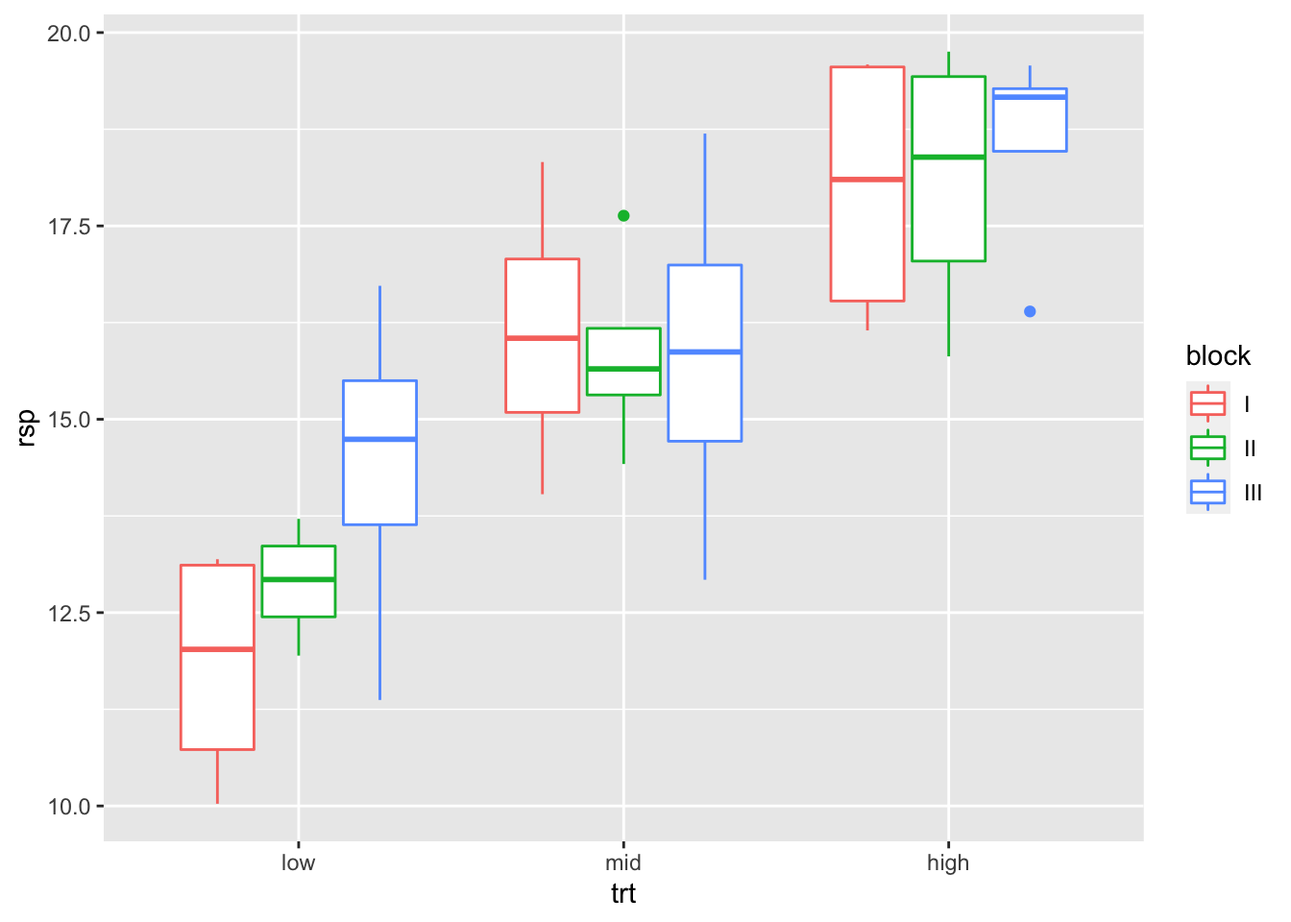
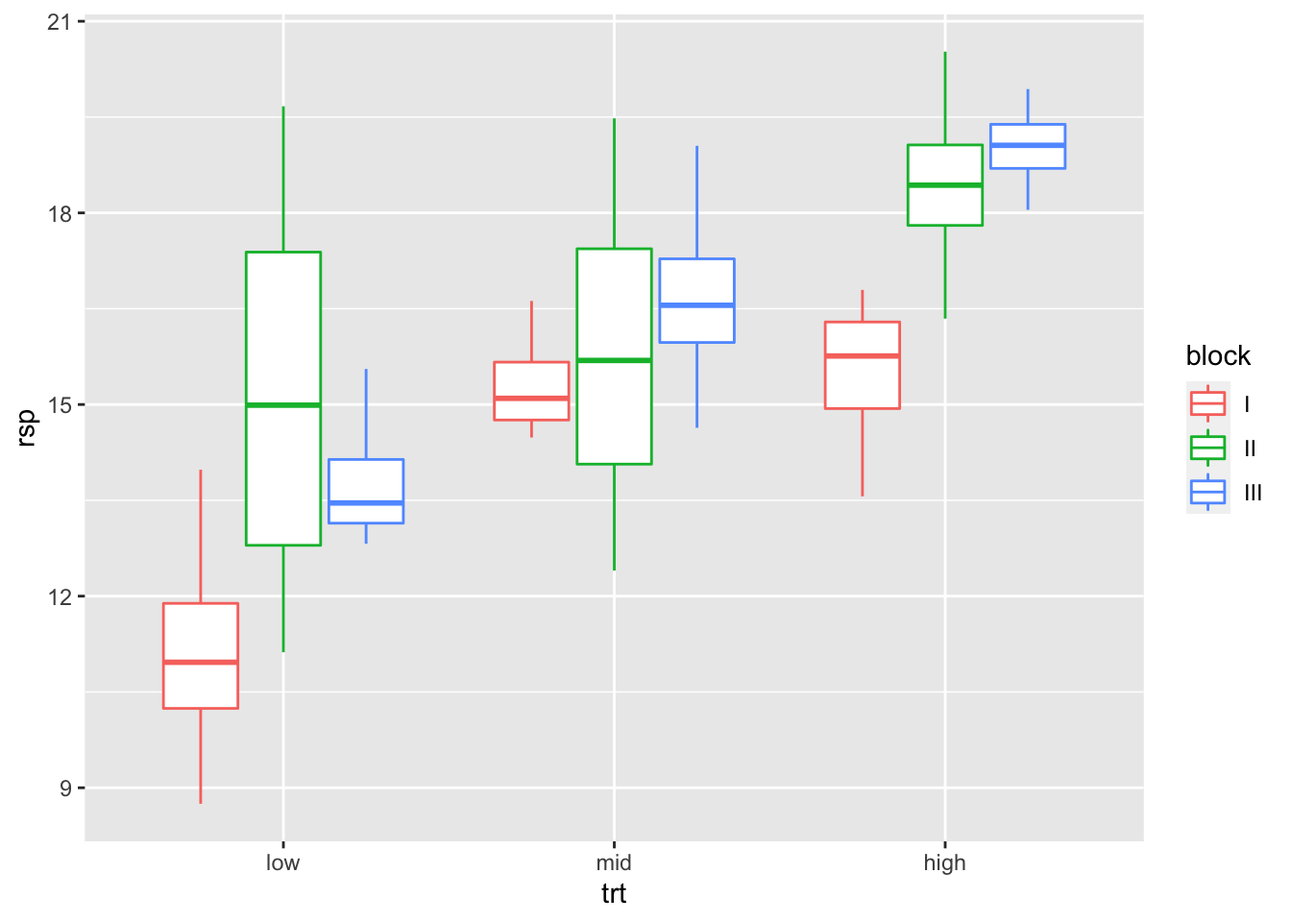
added some stuff

diff --git a/docs/app-example-analysis.html b/docs/app-example-analysis.html
@@ -340,7 +340,9 @@ code span.wa { color: #60a0b0; font-weight: bold; font-style: italic; } /* Warni
 <span class="header-section-number">A.1</span> Genutzte R Pakete für das Kapitel</h2>
 <p>Wir wollen folgende R Pakete in diesem Kapitel nutzen.</p>
 <div class="cell">
-<div class="sourceCode" id="cb1"><pre class="downlit sourceCode r code-with-copy"><code class="sourceCode R"><span><span class="fu">pacman</span><span class="fu">::</span><span class="fu"><a href="https://rdrr.io/pkg/pacman/man/p_load.html">p_load</a></span><span class="op">(</span><span class="va">tidyverse</span>, <span class="va">magrittr</span>, <span class="va">readxl</span>, <span class="va">broom</span>, <span class="va">multcomp</span>, <span class="va">emmeans</span>, <span class="va">conflicted</span><span class="op">)</span></span>
+<div class="sourceCode" id="cb1"><pre class="downlit sourceCode r code-with-copy"><code class="sourceCode R"><span><span class="fu">pacman</span><span class="fu">::</span><span class="fu"><a href="https://rdrr.io/pkg/pacman/man/p_load.html">p_load</a></span><span class="op">(</span><span class="va">tidyverse</span>, <span class="va">magrittr</span>, <span class="va">readxl</span>, </span>
+<span>               <span class="va">broom</span>, <span class="va">multcomp</span>, <span class="va">emmeans</span>, </span>
+<span>               <span class="va">conflicted</span><span class="op">)</span></span>
 <span></span>
 <span><span class="co">## resolve some conflicts with same function naming</span></span>
 <span><span class="fu">conflict_prefer</span><span class="op">(</span><span class="st">"select"</span>, <span class="st">"dplyr"</span><span class="op">)</span></span>
@@ -350,12 +352,7 @@ code span.wa { color: #60a0b0; font-weight: bold; font-style: italic; } /* Warni
 </section><section id="auswertung-von-gewichten" class="level2" data-number="A.2"><h2 data-number="A.2" class="anchored" data-anchor-id="auswertung-von-gewichten">
 <span class="header-section-number">A.2</span> Auswertung von Gewichten</h2>
 <div class="cell">
-<div class="sourceCode" id="cb2"><pre class="downlit sourceCode r code-with-copy"><code class="sourceCode R"><span><span class="va">data_tbl</span> <span class="op">&lt;-</span> <span class="fu">expand_grid</span><span class="op">(</span>trt <span class="op">=</span> <span class="fl">1</span><span class="op">:</span><span class="fl">3</span>, </span>
-<span>                        block <span class="op">=</span> <span class="fl">1</span><span class="op">:</span><span class="fl">3</span>,</span>
-<span>                        rep <span class="op">=</span> <span class="fl">1</span><span class="op">:</span><span class="fl">4</span><span class="op">)</span> <span class="op">%&gt;%</span> </span>
-<span>  <span class="fu">mutate</span><span class="op">(</span>rsp <span class="op">=</span> <span class="fl">10</span> <span class="op">+</span> <span class="fl">2</span> <span class="op">*</span> <span class="va">trt</span> <span class="op">+</span> <span class="va">block</span> <span class="op">+</span> <span class="fu"><a href="https://rdrr.io/r/stats/Normal.html">rnorm</a></span><span class="op">(</span><span class="fu">n</span><span class="op">(</span><span class="op">)</span>, <span class="fl">0</span>, <span class="fl">2</span><span class="op">)</span>,</span>
-<span>         trt <span class="op">=</span> <span class="fu"><a href="https://rdrr.io/r/base/factor.html">factor</a></span><span class="op">(</span><span class="va">trt</span>, labels <span class="op">=</span> <span class="fu"><a href="https://rdrr.io/r/base/c.html">c</a></span><span class="op">(</span><span class="st">"low"</span>, <span class="st">"mid"</span>, <span class="st">"high"</span><span class="op">)</span><span class="op">)</span>,</span>
-<span>         block <span class="op">=</span> <span class="fu"><a href="https://rdrr.io/r/base/factor.html">factor</a></span><span class="op">(</span><span class="va">block</span>, labels <span class="op">=</span> <span class="fu"><a href="https://rdrr.io/r/base/c.html">c</a></span><span class="op">(</span><span class="st">"I"</span>, <span class="st">"II"</span>, <span class="st">"III"</span><span class="op">)</span><span class="op">)</span><span class="op">)</span></span></code><button title="In die Zwischenablage kopieren" class="code-copy-button"><i class="bi"></i></button></pre></div>
+
 </div>
 <div class="cell">
 <div class="cell-output-display">
@@ -371,217 +368,217 @@ code span.wa { color: #60a0b0; font-weight: bold; font-style: italic; } /* Warni
 <td style="text-align: center;">low</td>
 <td style="text-align: center;">I</td>
 <td style="text-align: center;">1</td>
-<td style="text-align: center;">13.09</td>
+<td style="text-align: center;">11.19</td>
 </tr>
 <tr class="even">
 <td style="text-align: center;">low</td>
 <td style="text-align: center;">I</td>
 <td style="text-align: center;">2</td>
-<td style="text-align: center;">10.03</td>
+<td style="text-align: center;">8.75</td>
 </tr>
 <tr class="odd">
 <td style="text-align: center;">low</td>
 <td style="text-align: center;">I</td>
 <td style="text-align: center;">3</td>
-<td style="text-align: center;">10.96</td>
+<td style="text-align: center;">13.98</td>
 </tr>
 <tr class="even">
 <td style="text-align: center;">low</td>
 <td style="text-align: center;">I</td>
 <td style="text-align: center;">4</td>
-<td style="text-align: center;">13.19</td>
+<td style="text-align: center;">10.74</td>
 </tr>
 <tr class="odd">
 <td style="text-align: center;">low</td>
 <td style="text-align: center;">II</td>
 <td style="text-align: center;">1</td>
-<td style="text-align: center;">11.94</td>
+<td style="text-align: center;">11.12</td>
 </tr>
 <tr class="even">
 <td style="text-align: center;">low</td>
 <td style="text-align: center;">II</td>
 <td style="text-align: center;">2</td>
-<td style="text-align: center;">13.24</td>
+<td style="text-align: center;">13.35</td>
 </tr>
 <tr class="odd">
 <td style="text-align: center;">low</td>
 <td style="text-align: center;">II</td>
 <td style="text-align: center;">3</td>
-<td style="text-align: center;">13.71</td>
+<td style="text-align: center;">19.67</td>
 </tr>
 <tr class="even">
 <td style="text-align: center;">low</td>
 <td style="text-align: center;">II</td>
 <td style="text-align: center;">4</td>
-<td style="text-align: center;">12.61</td>
+<td style="text-align: center;">16.63</td>
 </tr>
 <tr class="odd">
 <td style="text-align: center;">low</td>
 <td style="text-align: center;">III</td>
 <td style="text-align: center;">1</td>
-<td style="text-align: center;">16.73</td>
+<td style="text-align: center;">12.82</td>
 </tr>
 <tr class="even">
 <td style="text-align: center;">low</td>
 <td style="text-align: center;">III</td>
 <td style="text-align: center;">2</td>
-<td style="text-align: center;">15.09</td>
+<td style="text-align: center;">13.25</td>
 </tr>
 <tr class="odd">
 <td style="text-align: center;">low</td>
 <td style="text-align: center;">III</td>
 <td style="text-align: center;">3</td>
-<td style="text-align: center;">11.37</td>
+<td style="text-align: center;">15.56</td>
 </tr>
 <tr class="even">
 <td style="text-align: center;">low</td>
 <td style="text-align: center;">III</td>
 <td style="text-align: center;">4</td>
-<td style="text-align: center;">14.39</td>
+<td style="text-align: center;">13.67</td>
 </tr>
 <tr class="odd">
 <td style="text-align: center;">mid</td>
 <td style="text-align: center;">I</td>
 <td style="text-align: center;">1</td>
-<td style="text-align: center;">18.33</td>
+<td style="text-align: center;">14.48</td>
 </tr>
 <tr class="even">
 <td style="text-align: center;">mid</td>
 <td style="text-align: center;">I</td>
 <td style="text-align: center;">2</td>
-<td style="text-align: center;">16.65</td>
+<td style="text-align: center;">15.34</td>
 </tr>
 <tr class="odd">
 <td style="text-align: center;">mid</td>
 <td style="text-align: center;">I</td>
 <td style="text-align: center;">3</td>
-<td style="text-align: center;">15.44</td>
+<td style="text-align: center;">16.62</td>
 </tr>
 <tr class="even">
 <td style="text-align: center;">mid</td>
 <td style="text-align: center;">I</td>
 <td style="text-align: center;">4</td>
-<td style="text-align: center;">14.03</td>
+<td style="text-align: center;">14.85</td>
 </tr>
 <tr class="odd">
 <td style="text-align: center;">mid</td>
 <td style="text-align: center;">II</td>
 <td style="text-align: center;">1</td>
-<td style="text-align: center;">14.42</td>
+<td style="text-align: center;">12.40</td>
 </tr>
 <tr class="even">
 <td style="text-align: center;">mid</td>
 <td style="text-align: center;">II</td>
 <td style="text-align: center;">2</td>
-<td style="text-align: center;">17.63</td>
+<td style="text-align: center;">14.62</td>
 </tr>
 <tr class="odd">
 <td style="text-align: center;">mid</td>
 <td style="text-align: center;">II</td>
 <td style="text-align: center;">3</td>
-<td style="text-align: center;">15.61</td>
+<td style="text-align: center;">19.48</td>
 </tr>
 <tr class="even">
 <td style="text-align: center;">mid</td>
 <td style="text-align: center;">II</td>
 <td style="text-align: center;">4</td>
-<td style="text-align: center;">15.69</td>
+<td style="text-align: center;">16.76</td>
 </tr>
 <tr class="odd">
 <td style="text-align: center;">mid</td>
 <td style="text-align: center;">III</td>
 <td style="text-align: center;">1</td>
-<td style="text-align: center;">15.31</td>
+<td style="text-align: center;">14.64</td>
 </tr>
 <tr class="even">
 <td style="text-align: center;">mid</td>
 <td style="text-align: center;">III</td>
 <td style="text-align: center;">2</td>
-<td style="text-align: center;">16.43</td>
+<td style="text-align: center;">16.42</td>
 </tr>
 <tr class="odd">
 <td style="text-align: center;">mid</td>
 <td style="text-align: center;">III</td>
 <td style="text-align: center;">3</td>
-<td style="text-align: center;">18.69</td>
+<td style="text-align: center;">16.69</td>
 </tr>
 <tr class="even">
 <td style="text-align: center;">mid</td>
 <td style="text-align: center;">III</td>
 <td style="text-align: center;">4</td>
-<td style="text-align: center;">12.92</td>
+<td style="text-align: center;">19.05</td>
 </tr>
 <tr class="odd">
 <td style="text-align: center;">high</td>
 <td style="text-align: center;">I</td>
 <td style="text-align: center;">1</td>
-<td style="text-align: center;">16.15</td>
+<td style="text-align: center;">16.79</td>
 </tr>
 <tr class="even">
 <td style="text-align: center;">high</td>
 <td style="text-align: center;">I</td>
 <td style="text-align: center;">2</td>
-<td style="text-align: center;">19.54</td>
+<td style="text-align: center;">15.39</td>
 </tr>
 <tr class="odd">
 <td style="text-align: center;">high</td>
 <td style="text-align: center;">I</td>
 <td style="text-align: center;">3</td>
-<td style="text-align: center;">19.59</td>
+<td style="text-align: center;">13.56</td>
 </tr>
 <tr class="even">
 <td style="text-align: center;">high</td>
 <td style="text-align: center;">I</td>
 <td style="text-align: center;">4</td>
-<td style="text-align: center;">16.66</td>
+<td style="text-align: center;">16.12</td>
 </tr>
 <tr class="odd">
 <td style="text-align: center;">high</td>
 <td style="text-align: center;">II</td>
 <td style="text-align: center;">1</td>
-<td style="text-align: center;">17.46</td>
+<td style="text-align: center;">16.34</td>
 </tr>
 <tr class="even">
 <td style="text-align: center;">high</td>
 <td style="text-align: center;">II</td>
 <td style="text-align: center;">2</td>
-<td style="text-align: center;">19.75</td>
+<td style="text-align: center;">18.29</td>
 </tr>
 <tr class="odd">
 <td style="text-align: center;">high</td>
 <td style="text-align: center;">II</td>
 <td style="text-align: center;">3</td>
-<td style="text-align: center;">15.81</td>
+<td style="text-align: center;">18.58</td>
 </tr>
 <tr class="even">
 <td style="text-align: center;">high</td>
 <td style="text-align: center;">II</td>
 <td style="text-align: center;">4</td>
-<td style="text-align: center;">19.32</td>
+<td style="text-align: center;">20.52</td>
 </tr>
 <tr class="odd">
 <td style="text-align: center;">high</td>
 <td style="text-align: center;">III</td>
 <td style="text-align: center;">1</td>
-<td style="text-align: center;">19.16</td>
+<td style="text-align: center;">19.20</td>
 </tr>
 <tr class="even">
 <td style="text-align: center;">high</td>
 <td style="text-align: center;">III</td>
 <td style="text-align: center;">2</td>
-<td style="text-align: center;">19.57</td>
+<td style="text-align: center;">19.94</td>
 </tr>
 <tr class="odd">
 <td style="text-align: center;">high</td>
 <td style="text-align: center;">III</td>
 <td style="text-align: center;">3</td>
-<td style="text-align: center;">16.39</td>
+<td style="text-align: center;">18.91</td>
 </tr>
 <tr class="even">
 <td style="text-align: center;">high</td>
 <td style="text-align: center;">III</td>
 <td style="text-align: center;">4</td>
-<td style="text-align: center;">19.17</td>
+<td style="text-align: center;">18.05</td>
 </tr>
 </tbody>
 </table>
@@ -590,14 +587,14 @@ code span.wa { color: #60a0b0; font-weight: bold; font-style: italic; } /* Warni
 <section id="explorative-datenanalyse-eda" class="level3" data-number="A.2.1"><h3 data-number="A.2.1" class="anchored" data-anchor-id="explorative-datenanalyse-eda">
 <span class="header-section-number">A.2.1</span> Explorative Datenanalyse (EDA)</h3>
 <div class="cell">
-<div class="sourceCode" id="cb3"><pre class="downlit sourceCode r code-with-copy"><code class="sourceCode R"><span><span class="fu">ggplot</span><span class="op">(</span><span class="va">data_tbl</span>, <span class="fu">aes</span><span class="op">(</span><span class="va">trt</span>, <span class="va">rsp</span>, color <span class="op">=</span> <span class="va">block</span><span class="op">)</span><span class="op">)</span> <span class="op">+</span></span>
+<div class="sourceCode" id="cb2"><pre class="downlit sourceCode r code-with-copy"><code class="sourceCode R"><span><span class="fu">ggplot</span><span class="op">(</span><span class="va">data_tbl</span>, <span class="fu">aes</span><span class="op">(</span><span class="va">trt</span>, <span class="va">rsp</span>, color <span class="op">=</span> <span class="va">block</span><span class="op">)</span><span class="op">)</span> <span class="op">+</span></span>
 <span>  <span class="fu">geom_boxplot</span><span class="op">(</span><span class="op">)</span></span></code><button title="In die Zwischenablage kopieren" class="code-copy-button"><i class="bi"></i></button></pre></div>
 <div class="cell-output-display">
 <p><img src="app-example-analysis_files/figure-html/unnamed-chunk-5-1.png" class="img-fluid" width="672"></p>
 </div>
 </div>
 <div class="cell">
-<div class="sourceCode" id="cb4"><pre class="downlit sourceCode r code-with-copy"><code class="sourceCode R"><span><span class="va">stat_tbl</span> <span class="op">&lt;-</span> <span class="va">data_tbl</span> <span class="op">%&gt;%</span> </span>
+<div class="sourceCode" id="cb3"><pre class="downlit sourceCode r code-with-copy"><code class="sourceCode R"><span><span class="va">stat_tbl</span> <span class="op">&lt;-</span> <span class="va">data_tbl</span> <span class="op">%&gt;%</span> </span>
 <span>  <span class="fu">group_by</span><span class="op">(</span><span class="va">trt</span>, <span class="va">block</span><span class="op">)</span> <span class="op">%&gt;%</span> </span>
 <span>  <span class="fu">summarise</span><span class="op">(</span>mean <span class="op">=</span> <span class="fu"><a href="https://rdrr.io/r/base/mean.html">mean</a></span><span class="op">(</span><span class="va">rsp</span><span class="op">)</span>,</span>
 <span>            sd <span class="op">=</span> <span class="fu"><a href="https://rdrr.io/r/stats/sd.html">sd</a></span><span class="op">(</span><span class="va">rsp</span><span class="op">)</span>,</span>
@@ -615,20 +612,20 @@ code span.wa { color: #60a0b0; font-weight: bold; font-style: italic; } /* Warni
 </section><section id="lineares-modell" class="level3" data-number="A.2.2"><h3 data-number="A.2.2" class="anchored" data-anchor-id="lineares-modell">
 <span class="header-section-number">A.2.2</span> Lineares Modell</h3>
 <div class="cell">
-<div class="sourceCode" id="cb5"><pre class="downlit sourceCode r code-with-copy"><code class="sourceCode R"><span><span class="va">fit_1</span> <span class="op">&lt;-</span> <span class="fu"><a href="https://rdrr.io/r/stats/lm.html">lm</a></span><span class="op">(</span><span class="va">rsp</span> <span class="op">~</span> <span class="va">trt</span> <span class="op">+</span> <span class="va">block</span>, data <span class="op">=</span> <span class="va">data_tbl</span><span class="op">)</span></span></code><button title="In die Zwischenablage kopieren" class="code-copy-button"><i class="bi"></i></button></pre></div>
+<div class="sourceCode" id="cb4"><pre class="downlit sourceCode r code-with-copy"><code class="sourceCode R"><span><span class="va">fit_1</span> <span class="op">&lt;-</span> <span class="fu"><a href="https://rdrr.io/r/stats/lm.html">lm</a></span><span class="op">(</span><span class="va">rsp</span> <span class="op">~</span> <span class="va">trt</span> <span class="op">+</span> <span class="va">block</span>, data <span class="op">=</span> <span class="va">data_tbl</span><span class="op">)</span></span></code><button title="In die Zwischenablage kopieren" class="code-copy-button"><i class="bi"></i></button></pre></div>
 </div>
 </section><section id="anova" class="level3" data-number="A.2.3"><h3 data-number="A.2.3" class="anchored" data-anchor-id="anova">
 <span class="header-section-number">A.2.3</span> ANOVA</h3>
 <div class="cell">
-<div class="sourceCode" id="cb6"><pre class="downlit sourceCode r code-with-copy"><code class="sourceCode R"><span><span class="va">fit_1</span> <span class="op">%&gt;%</span> <span class="va">anova</span></span></code><button title="In die Zwischenablage kopieren" class="code-copy-button"><i class="bi"></i></button></pre></div>
+<div class="sourceCode" id="cb5"><pre class="downlit sourceCode r code-with-copy"><code class="sourceCode R"><span><span class="va">fit_1</span> <span class="op">%&gt;%</span> <span class="va">anova</span></span></code><button title="In die Zwischenablage kopieren" class="code-copy-button"><i class="bi"></i></button></pre></div>
 <div class="cell-output cell-output-stdout">
 <pre><code>Analysis of Variance Table
 
 Response: rsp
-          Df   Sum Sq Mean Sq  F value        Pr(&gt;F)    
-trt        2 162.0665 81.0333 27.35802 0.00000014244 ***
-block      2   5.8618  2.9309  0.98951        0.3832    
-Residuals 31  91.8207  2.9620                           
+          Df   Sum Sq Mean Sq  F value      Pr(&gt;F)    
+trt        2 109.7985 54.8993 12.82984 0.000087168 ***
+block      2  50.4889 25.2445  5.89958   0.0067431 ** 
+Residuals 31 132.6499  4.2790                         
 ---
 Signif. codes:  0 '***' 0.001 '**' 0.01 '*' 0.05 '.' 0.1 ' ' 1</code></pre>
 </div>
@@ -637,7 +634,7 @@ Signif. codes:  0 '***' 0.001 '**' 0.01 '*' 0.05 '.' 0.1 ' ' 1</code></pre>
 <span class="header-section-number">A.2.4</span> Gruppenvergleich mit dem <code>multcomp</code> Paket</h3>
 <p>https://broom.tidymodels.org/reference/tidy.glht.html</p>
 <div class="cell">
-<div class="sourceCode" id="cb8"><pre class="downlit sourceCode r code-with-copy"><code class="sourceCode R"><span><span class="va">fit_1</span> <span class="op">%&gt;%</span> </span>
+<div class="sourceCode" id="cb7"><pre class="downlit sourceCode r code-with-copy"><code class="sourceCode R"><span><span class="va">fit_1</span> <span class="op">%&gt;%</span> </span>
 <span>  <span class="fu">glht</span><span class="op">(</span>linfct <span class="op">=</span> <span class="fu">mcp</span><span class="op">(</span>trt <span class="op">=</span> <span class="st">"Tukey"</span><span class="op">)</span><span class="op">)</span> <span class="op">%&gt;%</span> </span>
 <span>  <span class="va">tidy</span> <span class="op">%&gt;%</span> </span>
 <span>  <span class="fu">select</span><span class="op">(</span><span class="va">contrast</span>, <span class="va">estimate</span>, <span class="va">adj.p.value</span><span class="op">)</span> <span class="op">%&gt;%</span> </span>
@@ -646,16 +643,16 @@ Signif. codes:  0 '***' 0.001 '**' 0.01 '*' 0.05 '.' 0.1 ' ' 1</code></pre>
 <pre><code># A tibble: 3 × 3
   contrast   estimate adj.p.value
   &lt;chr&gt;         &lt;dbl&gt;       &lt;dbl&gt;
-1 mid - low      2.90      0.0007
-2 high - low     5.18      0     
-3 high - mid     2.28      0.0076</code></pre>
+1 mid - low      2.55      0.0134
+2 high - low     4.25      0.0001
+3 high - mid     1.70      0.127 </code></pre>
 </div>
 </div>
 </section><section id="gruppenvergleich-mit-der-emmeans-paket" class="level3" data-number="A.2.5"><h3 data-number="A.2.5" class="anchored" data-anchor-id="gruppenvergleich-mit-der-emmeans-paket">
 <span class="header-section-number">A.2.5</span> Gruppenvergleich mit der <code>emmeans</code> Paket</h3>
 <p>https://broom.tidymodels.org/reference/tidy.emmGrid.html</p>
 <div class="cell">
-<div class="sourceCode" id="cb10"><pre class="downlit sourceCode r code-with-copy"><code class="sourceCode R"><span><span class="va">fit_1</span> <span class="op">%&gt;%</span> </span>
+<div class="sourceCode" id="cb9"><pre class="downlit sourceCode r code-with-copy"><code class="sourceCode R"><span><span class="va">fit_1</span> <span class="op">%&gt;%</span> </span>
 <span>  <span class="fu">emmeans</span><span class="op">(</span><span class="st">"trt"</span><span class="op">)</span> <span class="op">%&gt;%</span> </span>
 <span>  <span class="fu">contrast</span><span class="op">(</span>method <span class="op">=</span> <span class="st">"pairwise"</span><span class="op">)</span> <span class="op">%&gt;%</span> </span>
 <span>  <span class="va">tidy</span> <span class="op">%&gt;%</span> </span>
@@ -665,9 +662,9 @@ Signif. codes:  0 '***' 0.001 '**' 0.01 '*' 0.05 '.' 0.1 ' ' 1</code></pre>
 <pre><code># A tibble: 3 × 3
   contrast   estimate adj.p.value
   &lt;chr&gt;         &lt;dbl&gt;       &lt;dbl&gt;
-1 low - mid     -2.90      0.0007
-2 low - high    -5.18      0     
-3 mid - high    -2.28      0.0076</code></pre>
+1 low - mid     -2.55      0.0135
+2 low - high    -4.25      0.0001
+3 mid - high    -1.70      0.127 </code></pre>
 </div>
 </div>
 </section></section><section id="auswertung-von-boniturnoten" class="level2" data-number="A.3"><h2 data-number="A.3" class="anchored" data-anchor-id="auswertung-von-boniturnoten">
@@ -1066,7 +1063,7 @@ Signif. codes:  0 '***' 0.001 '**' 0.01 '*' 0.05 '.' 0.1 ' ' 1</code></pre>
 <section id="explorative-datenanalyse-eda-1" class="level3" data-number="A.3.1"><h3 data-number="A.3.1" class="anchored" data-anchor-id="explorative-datenanalyse-eda-1">
 <span class="header-section-number">A.3.1</span> Explorative Datenanalyse (EDA)</h3>
 <div class="cell">
-<div class="sourceCode" id="cb12"><pre class="downlit sourceCode r code-with-copy"><code class="sourceCode R"><span><span class="fu">ggplot</span><span class="op">(</span><span class="va">data_tbl</span>, <span class="fu">aes</span><span class="op">(</span><span class="va">variety</span>, <span class="va">rating</span>, color <span class="op">=</span> <span class="va">block</span><span class="op">)</span><span class="op">)</span> <span class="op">+</span></span>
+<div class="sourceCode" id="cb11"><pre class="downlit sourceCode r code-with-copy"><code class="sourceCode R"><span><span class="fu">ggplot</span><span class="op">(</span><span class="va">data_tbl</span>, <span class="fu">aes</span><span class="op">(</span><span class="va">variety</span>, <span class="va">rating</span>, color <span class="op">=</span> <span class="va">block</span><span class="op">)</span><span class="op">)</span> <span class="op">+</span></span>
 <span>  <span class="fu">geom_boxplot</span><span class="op">(</span><span class="op">)</span> <span class="op">+</span></span>
 <span>  <span class="fu">geom_dotplot</span><span class="op">(</span><span class="fu">aes</span><span class="op">(</span>fill <span class="op">=</span> <span class="va">block</span><span class="op">)</span>, binaxis <span class="op">=</span> <span class="st">"y"</span>, stackdir<span class="op">=</span><span class="st">'center'</span>, </span>
 <span>               position<span class="op">=</span><span class="fu">position_dodge</span><span class="op">(</span><span class="fl">0.8</span><span class="op">)</span><span class="op">)</span>  </span></code><button title="In die Zwischenablage kopieren" class="code-copy-button"><i class="bi"></i></button></pre></div>
@@ -1075,7 +1072,7 @@ Signif. codes:  0 '***' 0.001 '**' 0.01 '*' 0.05 '.' 0.1 ' ' 1</code></pre>
 </div>
 </div>
 <div class="cell">
-<div class="sourceCode" id="cb13"><pre class="downlit sourceCode r code-with-copy"><code class="sourceCode R"><span><span class="fu">ggplot</span><span class="op">(</span><span class="va">data_tbl</span>, <span class="fu">aes</span><span class="op">(</span><span class="va">variety</span>, <span class="va">rating</span>, fill <span class="op">=</span> <span class="va">block</span><span class="op">)</span><span class="op">)</span> <span class="op">+</span></span>
+<div class="sourceCode" id="cb12"><pre class="downlit sourceCode r code-with-copy"><code class="sourceCode R"><span><span class="fu">ggplot</span><span class="op">(</span><span class="va">data_tbl</span>, <span class="fu">aes</span><span class="op">(</span><span class="va">variety</span>, <span class="va">rating</span>, fill <span class="op">=</span> <span class="va">block</span><span class="op">)</span><span class="op">)</span> <span class="op">+</span></span>
 <span>  <span class="fu">geom_dotplot</span><span class="op">(</span>binaxis <span class="op">=</span> <span class="st">"y"</span>, stackdir<span class="op">=</span><span class="st">'center'</span>, </span>
 <span>               position<span class="op">=</span><span class="fu">position_dodge</span><span class="op">(</span><span class="fl">0.8</span><span class="op">)</span><span class="op">)</span> <span class="op">+</span></span>
 <span>  <span class="fu">stat_summary</span><span class="op">(</span>fun <span class="op">=</span> <span class="va">median</span>, fun.min <span class="op">=</span> <span class="va">median</span>, fun.max <span class="op">=</span> <span class="va">median</span>,</span>
@@ -1088,7 +1085,7 @@ Signif. codes:  0 '***' 0.001 '**' 0.01 '*' 0.05 '.' 0.1 ' ' 1</code></pre>
 </section><section id="friedman-test" class="level3" data-number="A.3.2"><h3 data-number="A.3.2" class="anchored" data-anchor-id="friedman-test">
 <span class="header-section-number">A.3.2</span> Friedman Test</h3>
 <div class="cell">
-<div class="sourceCode" id="cb14"><pre class="downlit sourceCode r code-with-copy"><code class="sourceCode R"><span><span class="co">#friedman.test(rating ~ variety | block, data = data_tbl)</span></span>
+<div class="sourceCode" id="cb13"><pre class="downlit sourceCode r code-with-copy"><code class="sourceCode R"><span><span class="co">#friedman.test(rating ~ variety | block, data = data_tbl)</span></span>
 <span></span>
 <span><span class="va">data_tbl</span> <span class="op">&lt;-</span> <span class="fu">tibble</span><span class="op">(</span>Block <span class="op">=</span> <span class="fl">1</span><span class="op">:</span><span class="fl">4</span>,</span>
 <span>                   Sorte_1 <span class="op">=</span> <span class="fu"><a href="https://rdrr.io/r/base/c.html">c</a></span><span class="op">(</span><span class="fl">2</span>,<span class="fl">3</span>,<span class="fl">4</span>,<span class="fl">3</span><span class="op">)</span>,</span>
